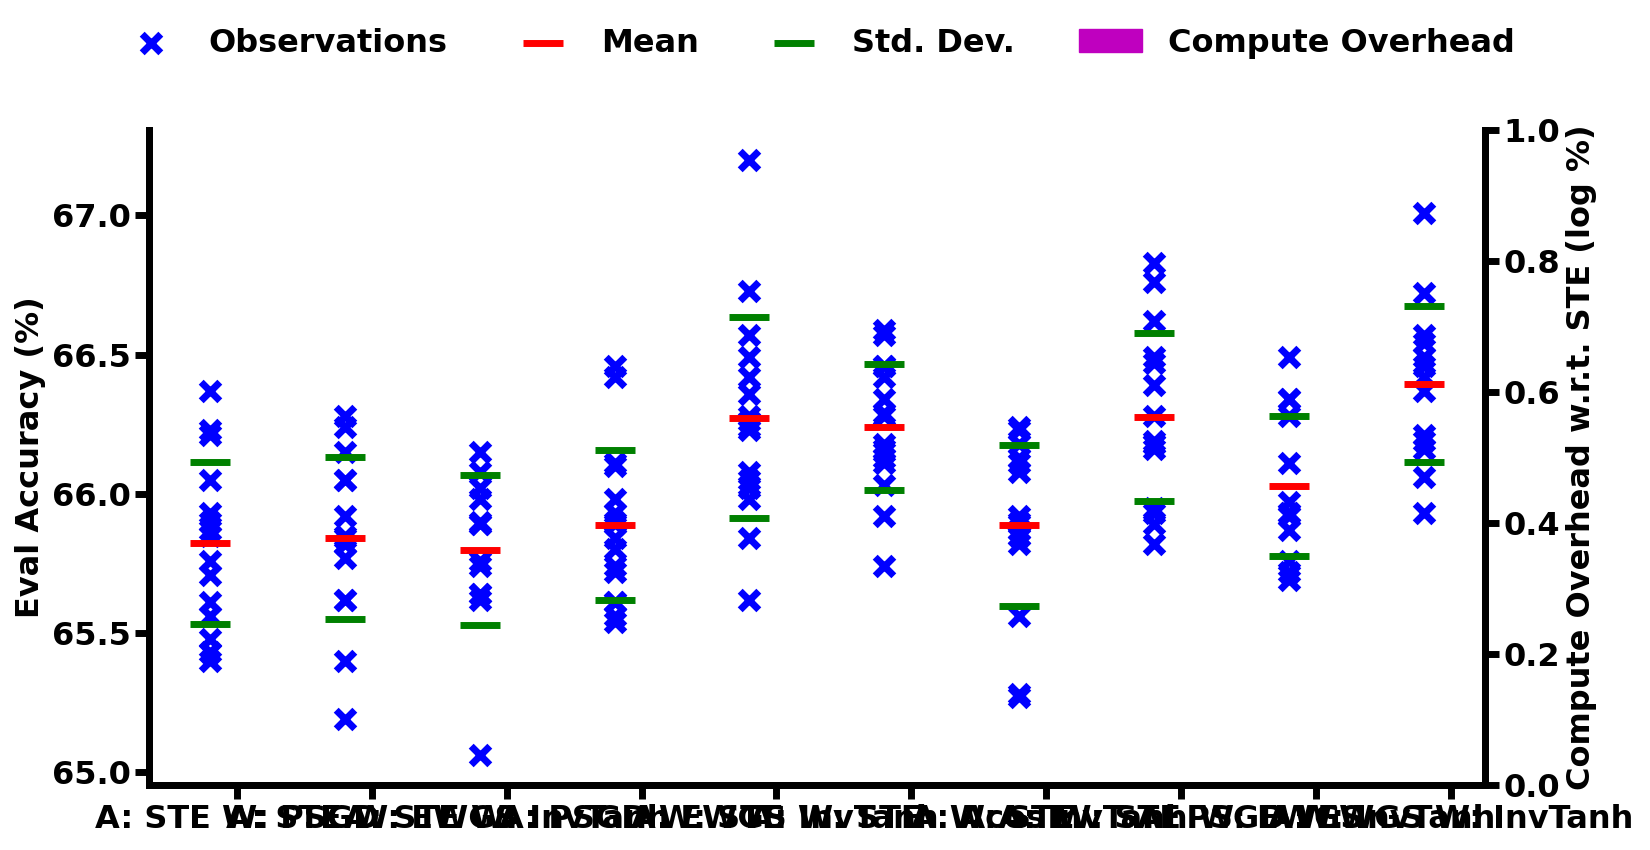
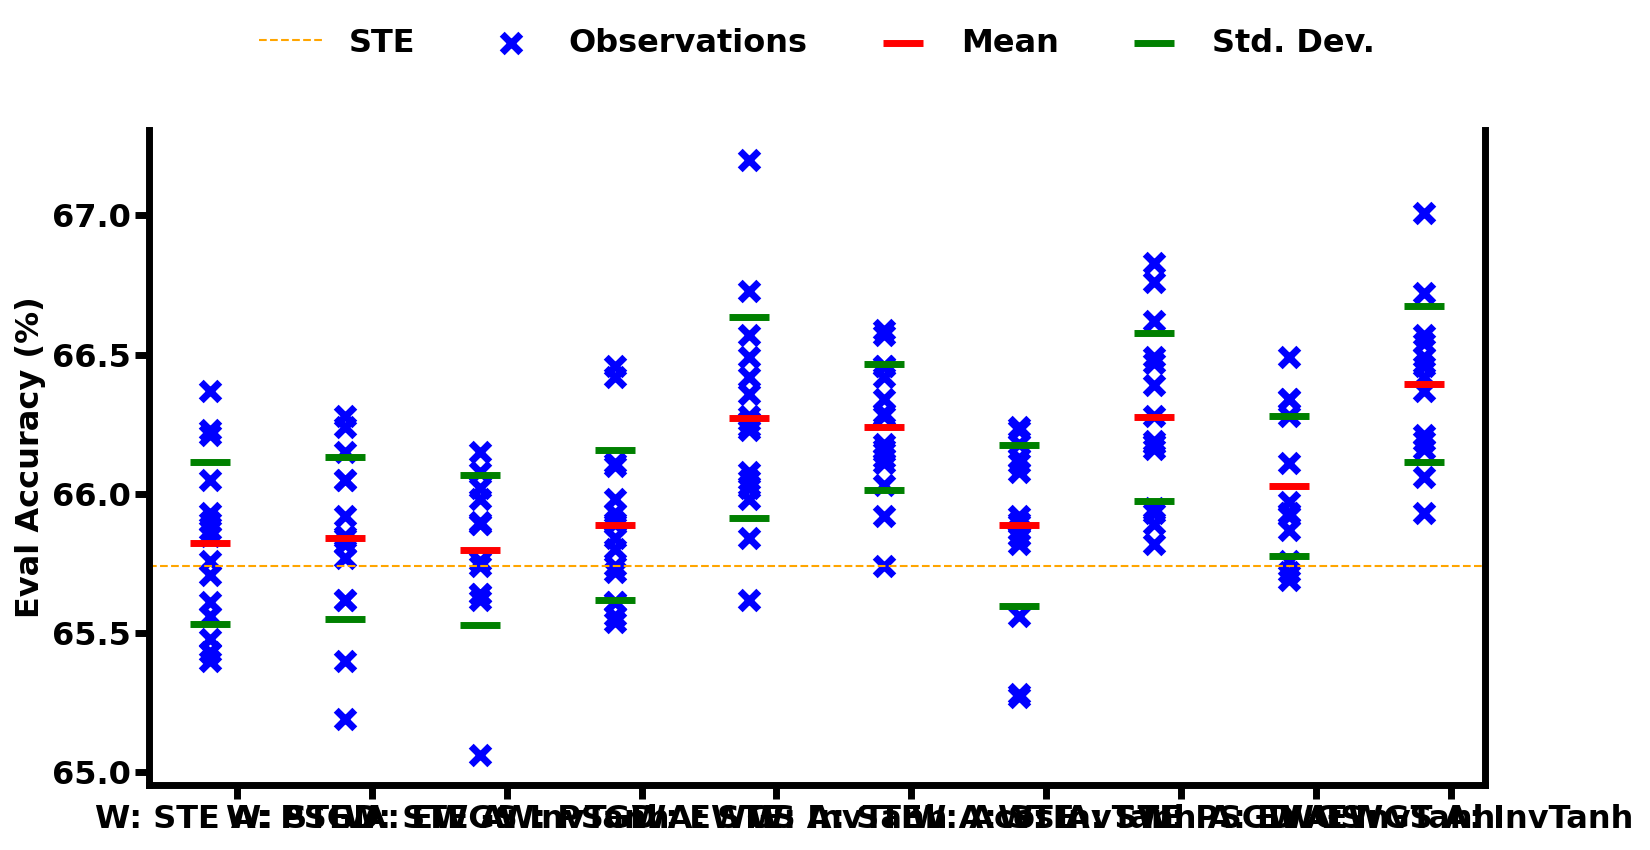
normal - test

diff --git a/examples/efficientnet/visualization.py b/examples/efficientnet/visualization.py
@@ -340,7 +340,7 @@ def get_times_rel_ste():
     times_list.append(1 / times.mean())
     names_list.append(key)
 
-  return 1 - times_list[0] / np.array(times_list)
+  return times_list# 1 - times_list[0] / np.array(times_list)
 
 
 def plot_surrogate():
@@ -558,11 +558,46 @@ def plot_comparison(name):
   plt.close()
 
 
+sur_grads_mixed_tb = {
+'STE_PSGD': '2c6z1WUlSyGfxbkNenD9cA',
+'STE_EWGS': 'PI0wmaaNSZqCNfXqsqSk7A',
+'STE_InvTanh': 'xdQtJvCeRl6HavRpCjsbeg',
+'PSGD_STE': 'kJBi3rklT4uEnzAzESATqg',
+'EWGS_STE': 'A5OrYLJNS7SybC1FLjCWUQ',
+'InvTanh_STE': 'PQFx6n8FQECgVzLVV5dMGw',
+'Acos_STE': 'wF4mfk4lQSq14OHGWjJPlA',
+'InvTanh_EWGS': '2k1wt76LTvimNWo07GtQlQ',
+'PSGD_InvTanh': 'qj3Eow1uRxWWqaz0gKXW6Q',
+'EWGS_InvTanh': 'vJyM25oIRbGcKSDueA3dAg',
+}
 
+def get_times_rel_ste_mixed(ste_val):
+
+  times_list = []
+  names_list = []
+
+  for key, value in sur_grads_mixed_tb.items():
+    experiment = tb.data.experimental.ExperimentFromDev(value)
+
+    try:
+      df = experiment.get_scalars()
+    except grpc.RpcError as rpc_error:
+      print('Couldn\'t fetch experiment: ' + value + ' got \
+          error: ' + str(rpc_error))
+      return None
+
+    data = df[df['run'] == 'train']
+    times = data[data['tag'] == 'steps_per_second']['value']
+    times = times[times > times.mean()]  # discarding first step and eval steps
+    times_list.append(1 / times.mean())
+    names_list.append(key)
+
+  return 1 - ste_val / np.array(times_list)
 
 def plot_surrogate_mix():
+
   names = sur_grads_mixed[0].split(',')  # [x.split('_')[0] for x in sur_grads_mixed[0].split(',')]
-  names = ['A: ' + x.split('_')[0] + ' W: ' + x.split('_')[1] for x in names]
+  names = ['W: ' + x.split('_')[0] + ' A: ' + x.split('_')[1] for x in names]
   data = np.stack([x.split(',') for x in sur_grads_mixed[1:]])
   y = [float(x) * 100 if x != '' else np.nan for x in data.flatten(order='F')]
   x = np.repeat(np.arange(len(names)) + 1, 20)
@@ -590,13 +625,12 @@ def plot_surrogate_mix():
   ax.scatter(base_x / 2, mu - sigma, marker='_',
              linewidths=5, s=840, color='green')
 
+
+  plt.axhline(y=65.741000, color='orange', linestyle='--', label = 'STE')
   plt.xticks(base_x / 2 + .1, names, rotation='horizontal')
 
-  handles, labels = ax.get_legend_handles_labels()
-  handles.append(mpatches.Patch(color='m', label='Compute Overhead'))
 
   plt.legend(
-      handles=handles,
       bbox_to_anchor=(0.5, 1.2),
       loc="upper center",
       ncol=4,
@@ -604,16 +638,7 @@ def plot_surrogate_mix():
       prop={'weight': 'bold', 'size': font_size}
   )
 
-  # times = get_times_rel_ste()
-  # times = np.array([0.00000000e+00, 4.57459557e-01, 4.45819267e-01,
-  #                  2.40027758e-04, 1.25836929e-02, 1.25226535e-01,
-  #                  1.49267876e-01, 1.08655595e-01])
-
-  ax2 = ax.twinx()
-  #ax2.bar(base_x / 2 + .2, times * 100, width=.1,
-  #        color='m', edgecolor='black', linewidth=3.)
-  #ax2.set_yscale('log')
-
+ 
   ax.spines["top"].set_visible(False)
   # ax.spines["right"].set_visible(False)
 
@@ -628,26 +653,13 @@ def plot_surrogate_mix():
   for tick in ax.yaxis.get_major_ticks():
     tick.label1.set_fontweight('bold')
 
-  ax2.spines["top"].set_visible(False)
-  # ax2.spines["right"].set_visible(False)
 
-  ax2.xaxis.set_tick_params(width=5, length=10, labelsize=font_size)
-  ax2.yaxis.set_tick_params(width=5, length=10, labelsize=font_size)
+  # [label.set_fontweight('bold') for label in ax.get_yticklabels()]
 
-  for axis in ['top', 'bottom', 'left', 'right']:
-    ax2.spines[axis].set_linewidth(5)
-
-  for tick in ax2.xaxis.get_major_ticks():
-    tick.label1.set_fontweight('bold')
-  for tick in ax2.yaxis.get_major_ticks():
-    tick.label1.set_fontweight('bold')
-
-  [label.set_fontweight('bold') for label in ax2.get_yticklabels()]
-
-  plt.xticks(rotation = 45)
+  # plt.xticks(rotation = 45)
   ax.set_ylabel("Eval Accuracy (%)", fontsize=font_size, fontweight='bold')
-  ax2.set_ylabel("Compute Overhead w.r.t. STE (log %)",
-                 fontsize=font_size, fontweight='bold')
+  #ax2.set_ylabel("Compute Overhead w.r.t. STE (log %)",
+  #               fontsize=font_size, fontweight='bold')
   plt.tight_layout()
   plt.savefig('figures/surrogate_grads_mixed.png')
   plt.close()
